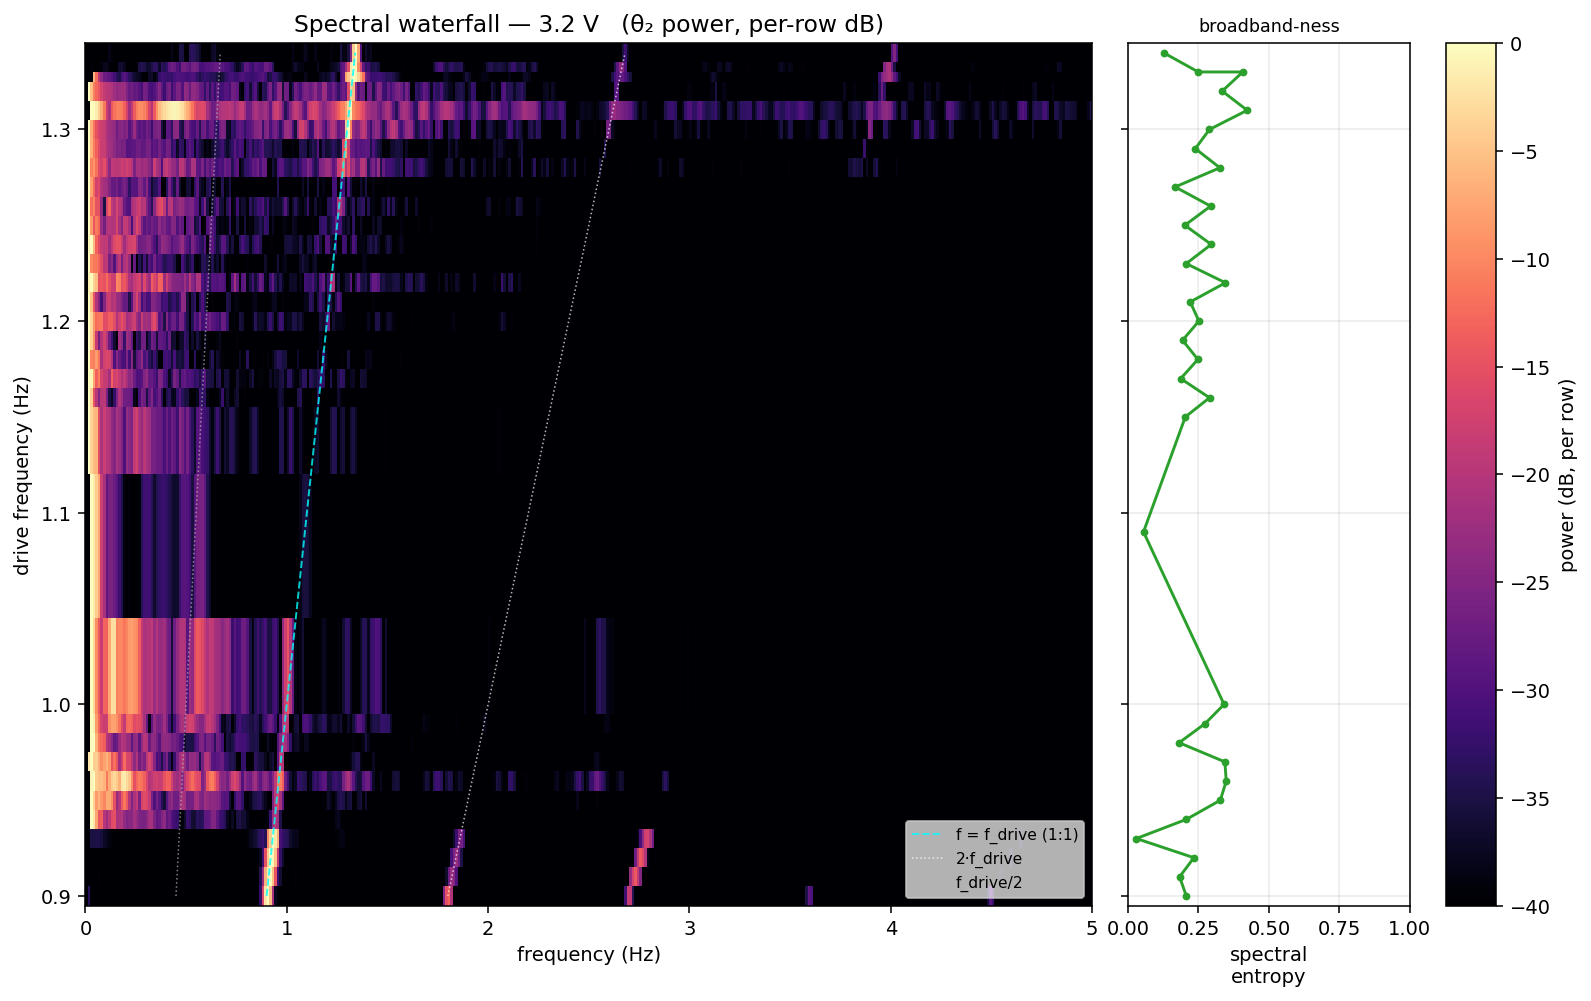
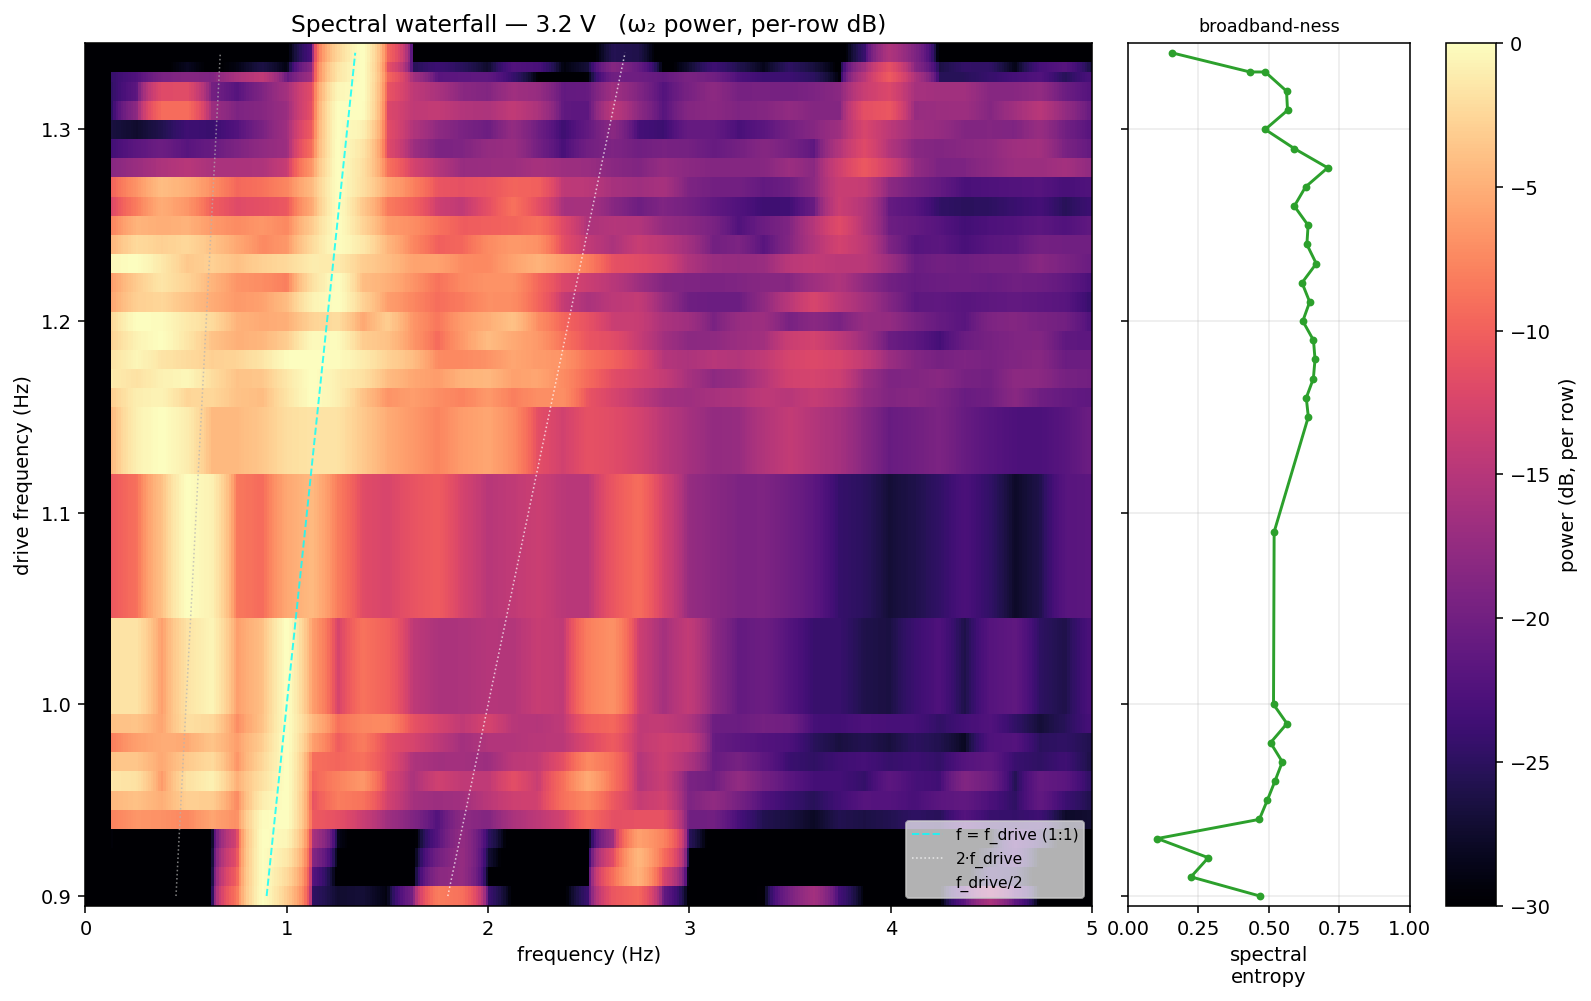
Add spectral_waterfall.py — power-spectrum sweep (3rd chaos signature)
Stacks the lower-arm spectrum of every clip in a fixed-voltage family
into one image (frequency x drive-frequency, per-row dB) so the route to
chaos is visible as a spectral transition: sharp lines on the f=f_drive
ridge (periodic) -> continuous broadband floor (chaotic) -> sharp lines
again. A thin right panel plots per-row spectral entropy (reused from
chaos_analyze) as the quantitative broadband-ness companion.

Spectrum is of omega2 (Welch-averaged, mean-removed): stationary whether
the arm librates or circulates, so a linear detrend of the angle is not
needed and the rotation drift does not swamp the low-frequency bins.

On the 3.2V family the broadband window (entropy ~0.5-0.7) lands at
0.94-1.27 Hz, matching loops / D2 / phase-lock from chaos_sweep.

Outputs: figures/aggregate/spectral_waterfall_<V>V.{png,csv}

diff --git a/scripts/analysis/spectral_waterfall.py b/scripts/analysis/spectral_waterfall.py
@@ -45,6 +45,7 @@ except (AttributeError, OSError):
     pass
 
 import numpy as np
+from scipy.signal import welch
 import matplotlib
 matplotlib.use("Agg")
 import matplotlib.pyplot as plt
@@ -113,12 +114,14 @@ def clip_spectrum(t, th2, fmax, nfreq, transient_s):
     om2 = np.gradient(phi, t)
     x = om2 - om2.mean()
 
+    # Welch PSD: averaging ~8 s segments tames the periodogram's huge
+    # variance so a sharp line reads as a sharp line and a broadband floor
+    # reads as broadband (the whole point of the waterfall).
     n = len(x)
-    w = np.hanning(n)
     dt = float(np.median(np.diff(t)))
-    fft = np.fft.rfft(x * w)
-    freqs = np.fft.rfftfreq(n, d=dt)
-    power = np.abs(fft) ** 2
+    fs = 1.0 / dt
+    nper = max(64, min(n // 4, int(round(fs * 8.0))))
+    freqs, power = welch(x, fs=fs, nperseg=nper, detrend="constant")
     freqs, power = freqs[1:], power[1:]          # drop DC
 
     peak_freq = float(freqs[int(np.argmax(power))]) if len(power) else np.nan
@@ -163,7 +166,7 @@ def make_figure(rows, voltage, fmax, out_path):
     grid = rows[0][2]
     Z = np.vstack([r[3] for r in rows])          # (n_clips, nfreq)
     ent = np.array([r[4] for r in rows])
-    dB = 10.0 * np.log10(np.clip(Z, 1e-4, None))  # per-row already max=1
+    dB = 10.0 * np.log10(np.clip(Z, 1e-3, None))  # per-row already max=1
 
     # y-cell edges from the (irregular) drive frequencies
     yc = fdrv
@@ -180,7 +183,7 @@ def make_figure(rows, voltage, fmax, out_path):
     cax = fig.add_subplot(gs[0, 2])
 
     pcm = ax.pcolormesh(xed, yed, dB, cmap="magma",
-                        norm=Normalize(vmin=-40, vmax=0), shading="flat")
+                        norm=Normalize(vmin=-30, vmax=0), shading="flat")
     # drive-locked guides
     ax.plot(fdrv, fdrv, color="cyan", lw=1.0, ls="--", alpha=0.8,
             label="f = f_drive (1:1)")
@@ -192,7 +195,7 @@ def make_figure(rows, voltage, fmax, out_path):
     ax.set_xlabel("frequency (Hz)")
     ax.set_ylabel("drive frequency (Hz)")
     ax.set_title(f"Spectral waterfall — {voltage:g} V   "
-                 f"(θ₂ power, per-row dB)")
+                 f"(ω₂ power, per-row dB)")
     ax.legend(loc="lower right", fontsize=8, framealpha=0.7)
     fig.colorbar(pcm, cax=cax, label="power (dB, per row)")
 
@@ -248,4 +251,9 @@ def main():
     write_csv(rows, args.voltage, csv_out)
     png_out = aggregate_path(f"spectral_waterfall_{args.voltage:g}V.png")
     make_figure(rows, args.voltage, args.fmax, png_out)
-    console.print(f"  [dim]{len(rows)} 
+    console.print(f"  [dim]{len(rows)} clips → {csv_out}[/]")
+    console.print(f"  [dim]→ {png_out}[/]")
+
+
+if __name__ == "__main__":
+    main()
